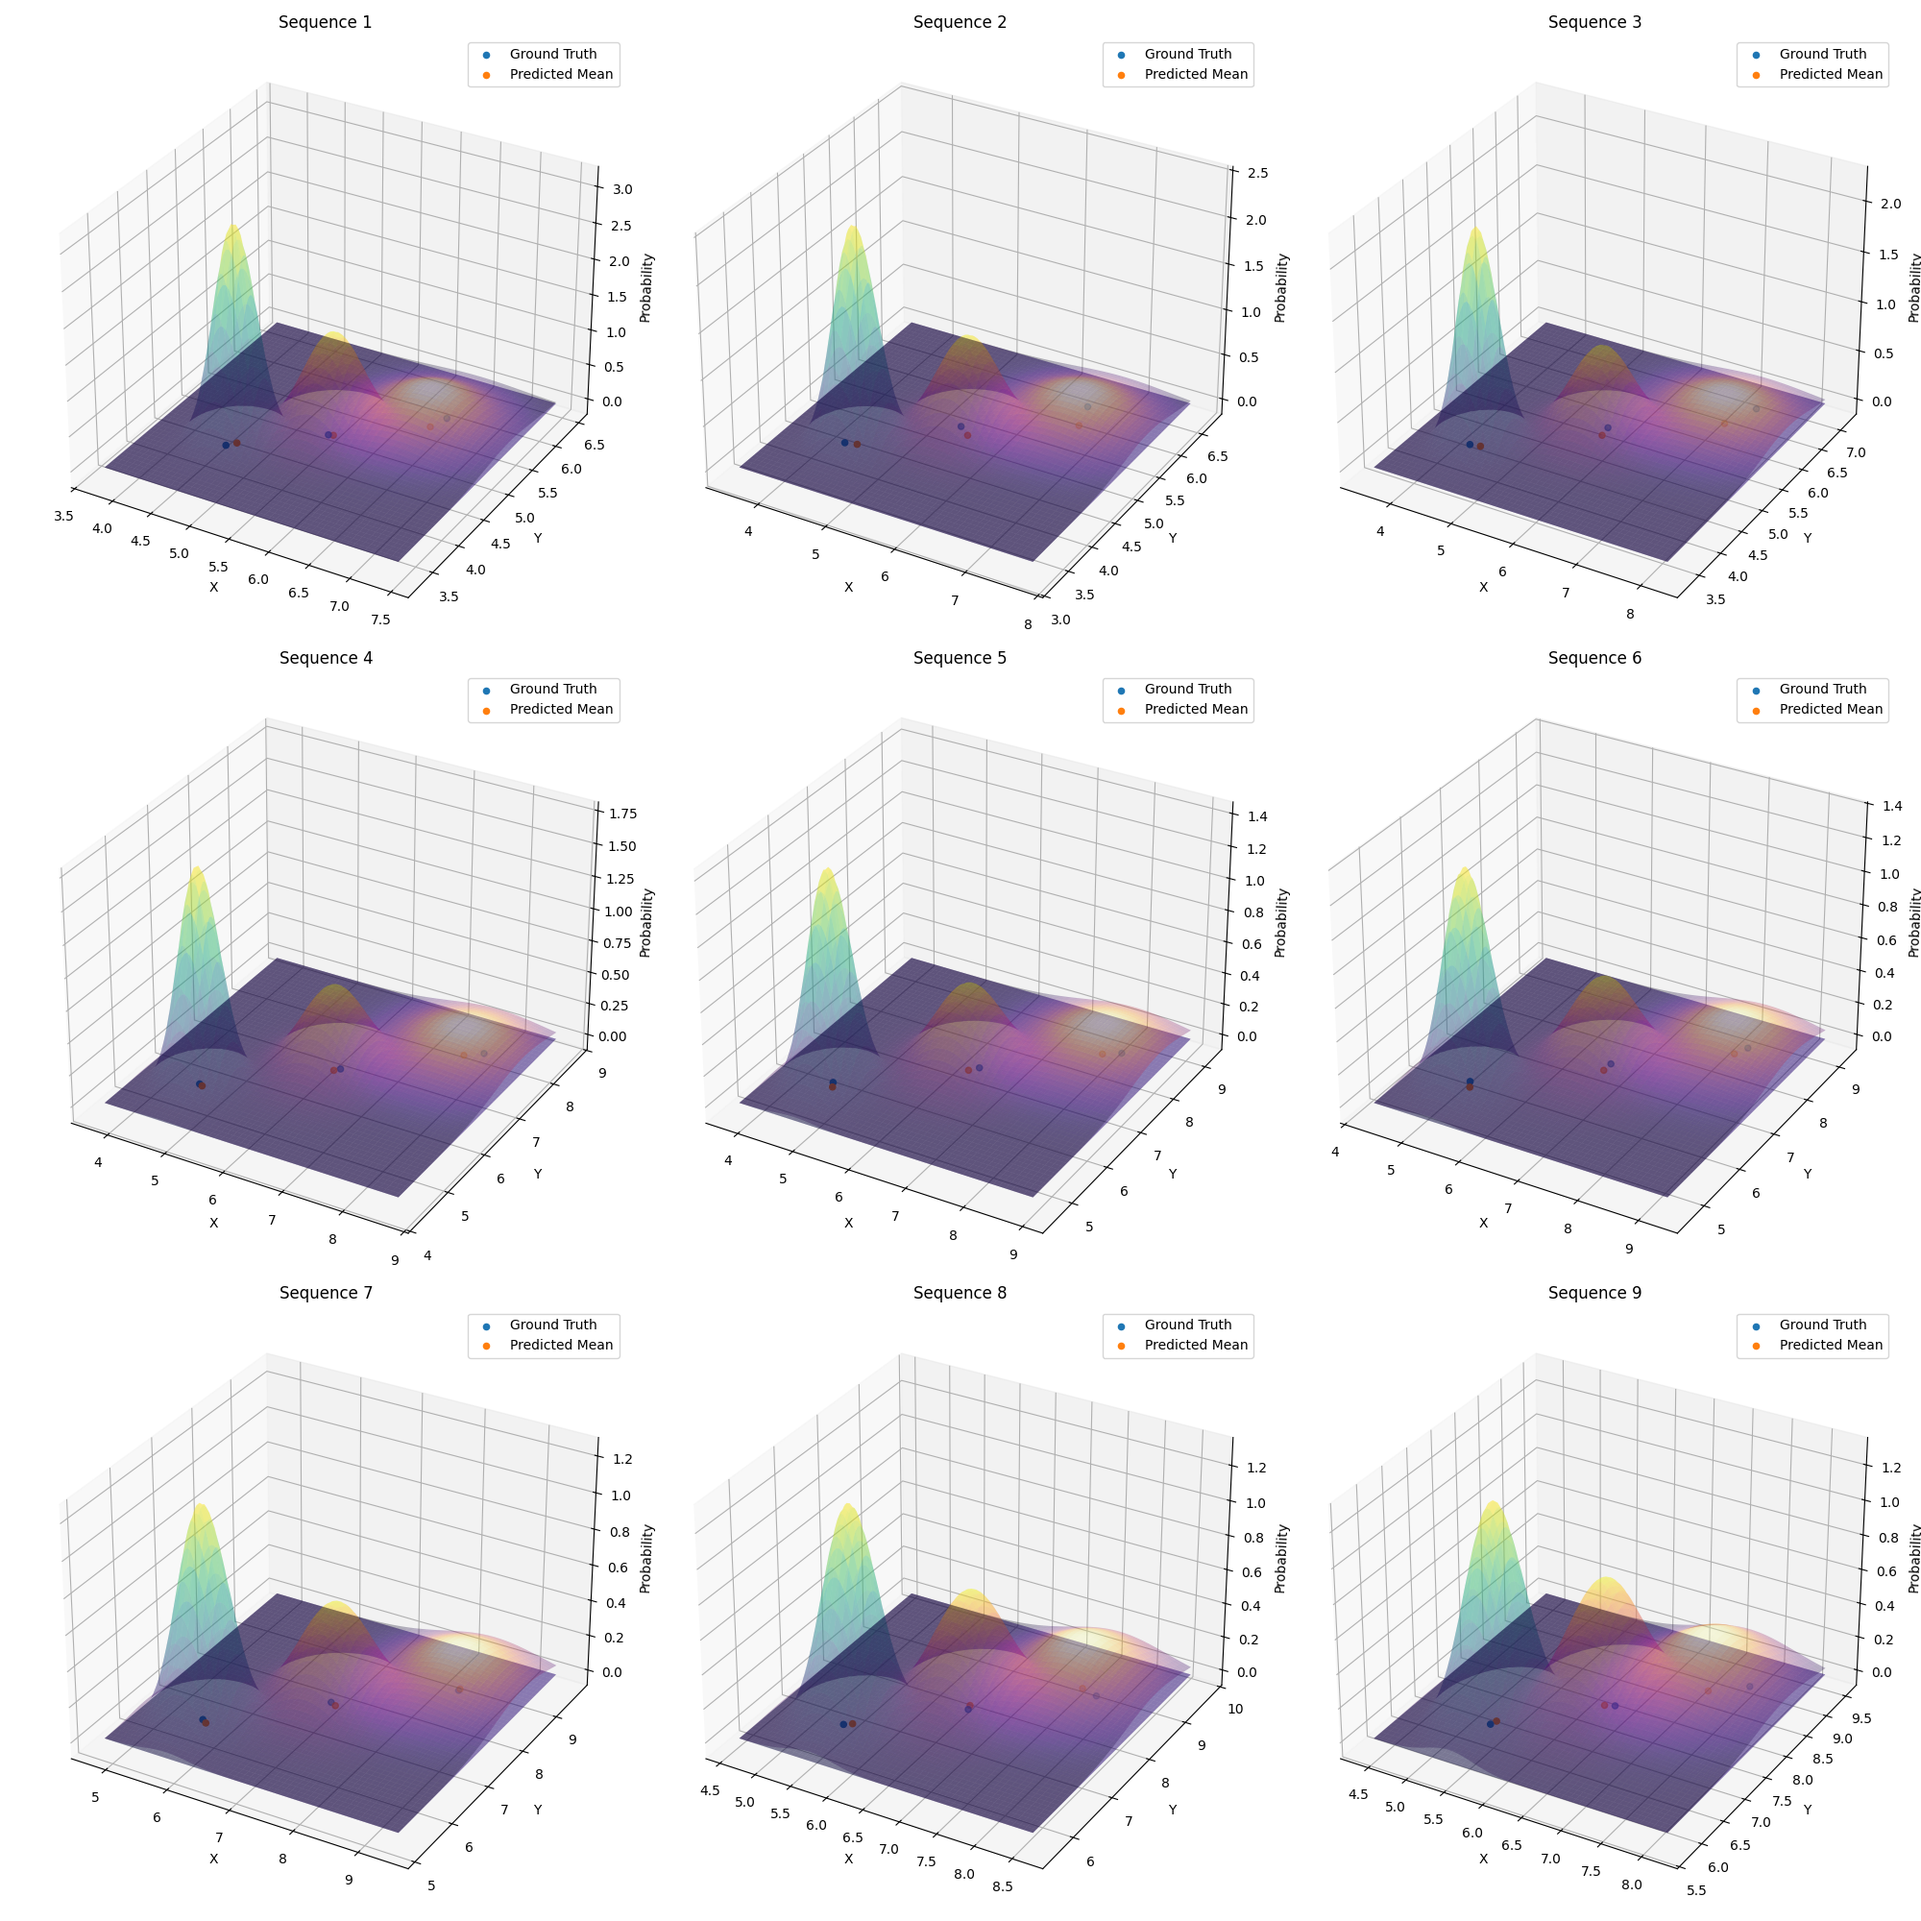
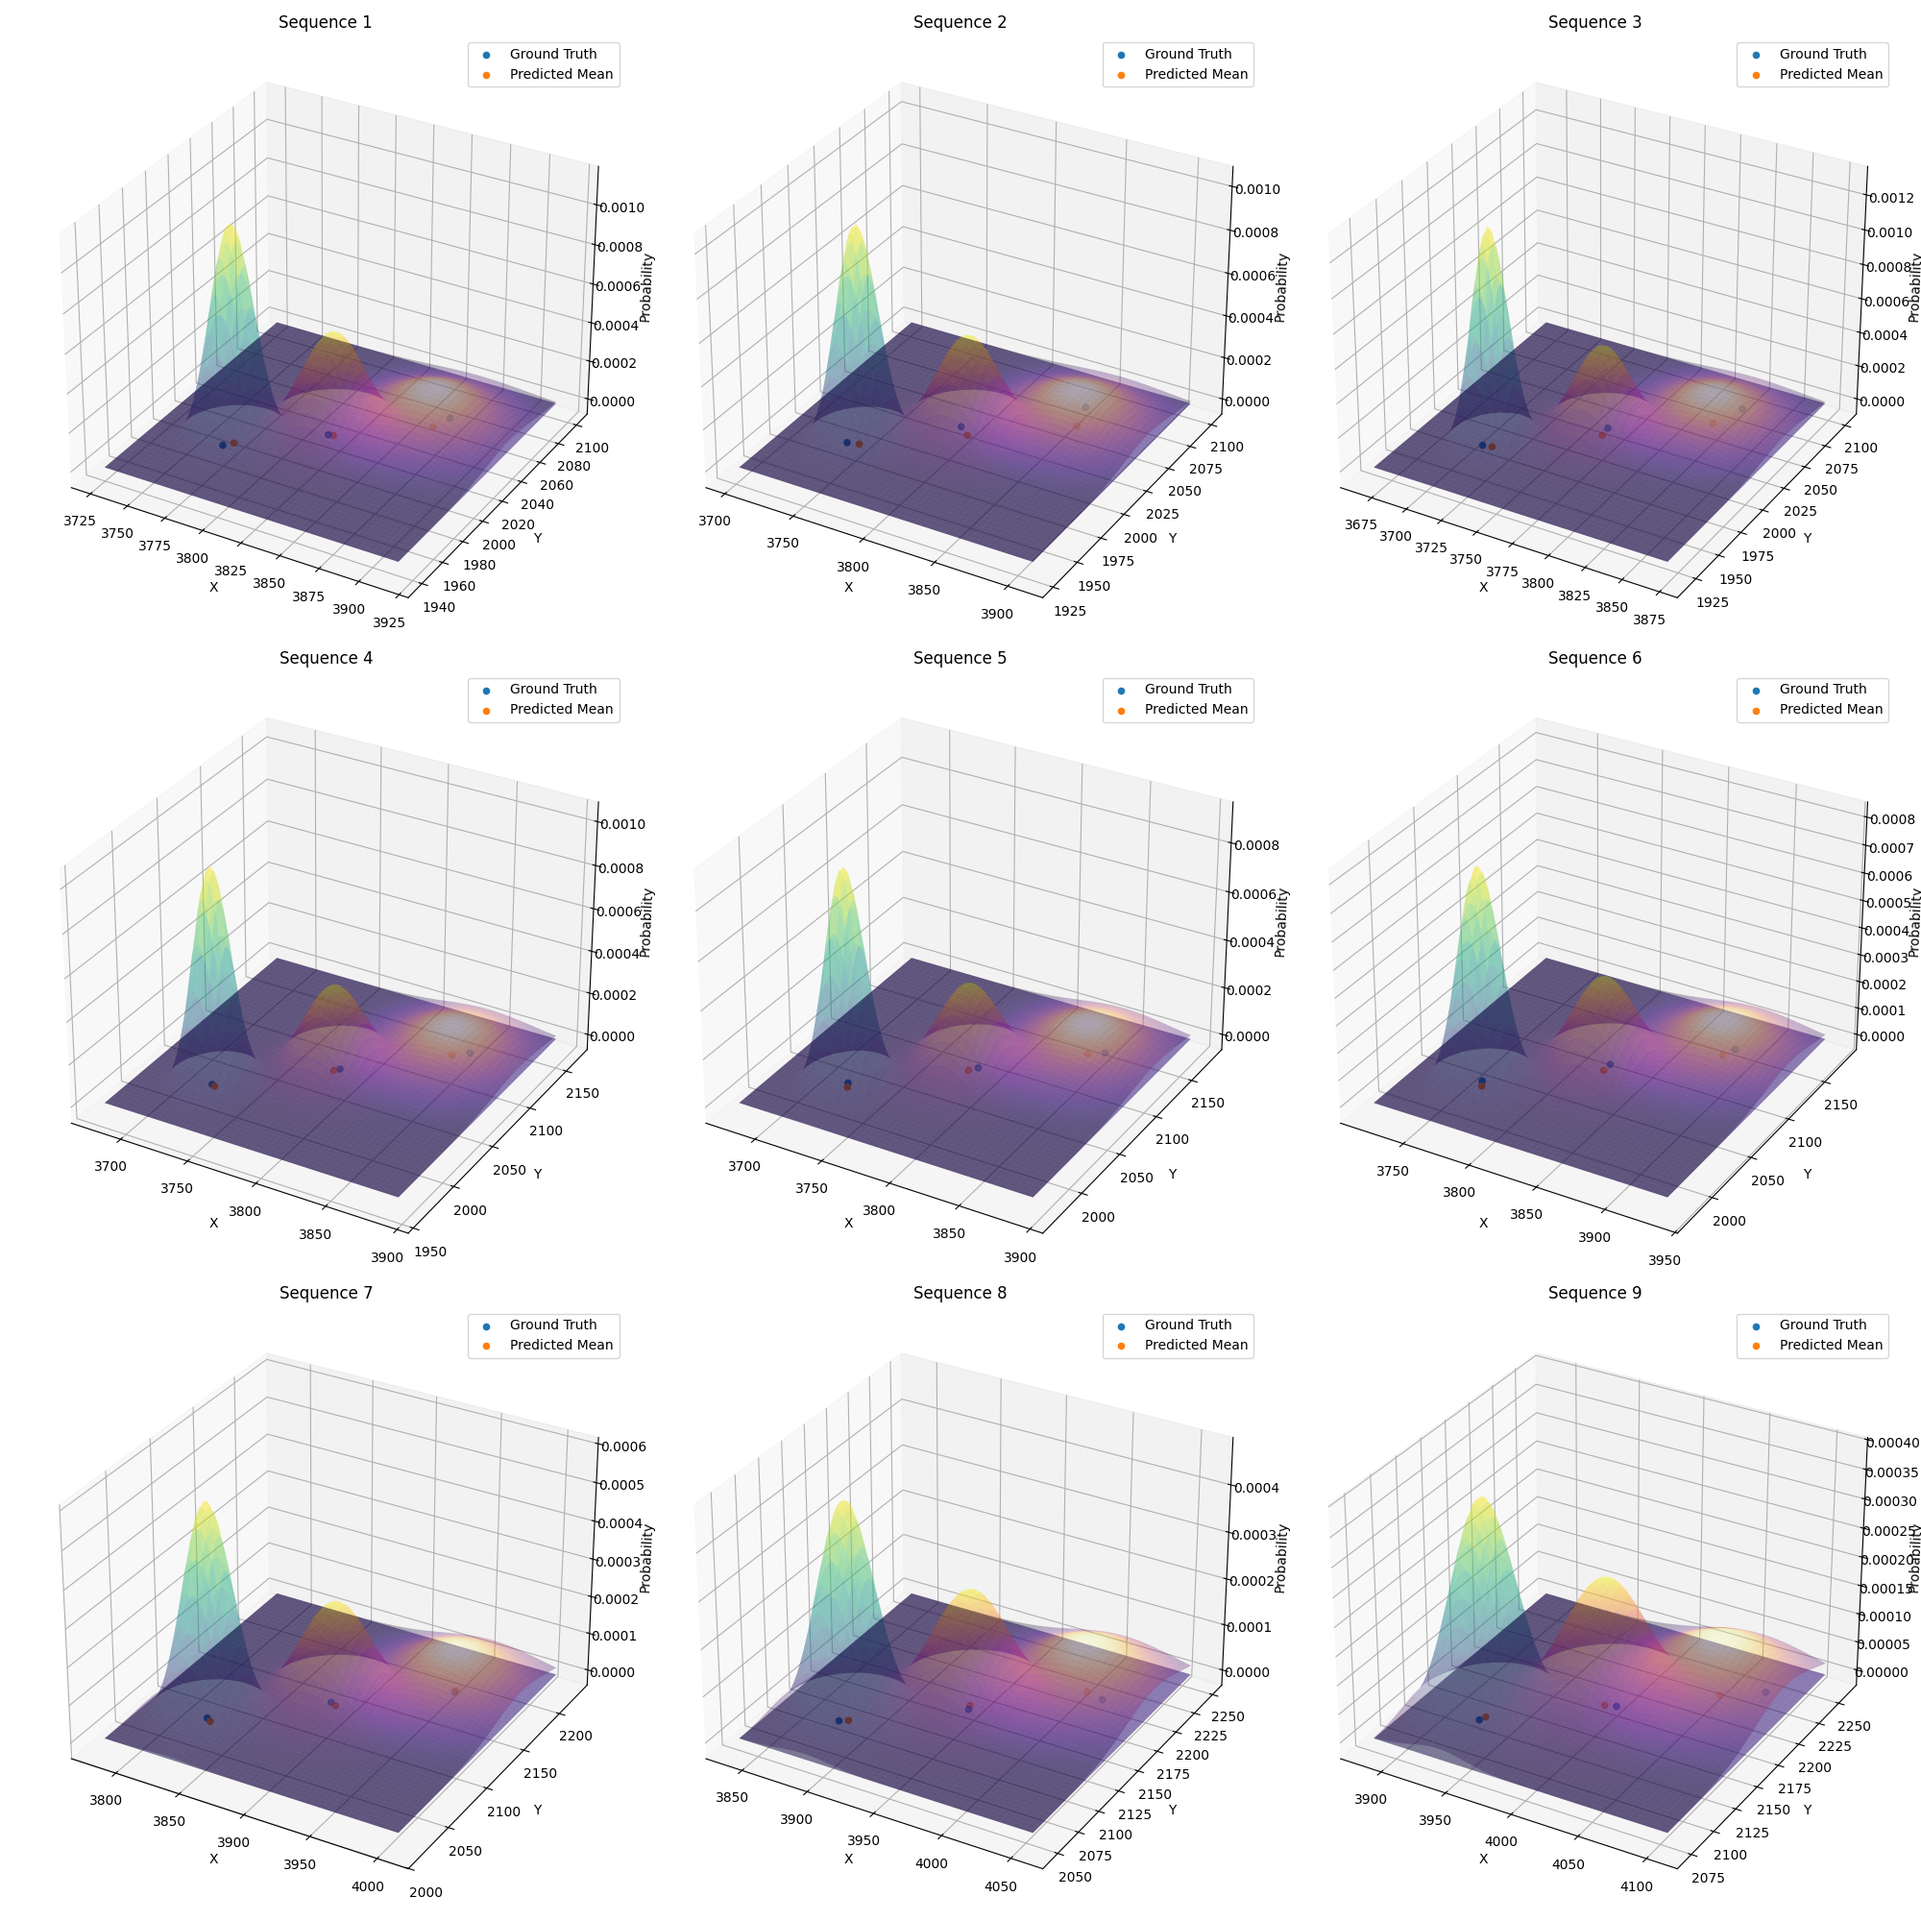
unscaled dist.

diff --git a/test.py b/test.py
@@ -6,6 +6,7 @@ from scipy.stats import multivariate_normal
 
 from TrajectoryDataset import TrajectoryDataset
 from DLModels import GraphTrajectoryLSTM
+from visualizer import visualize_predictions
 
 
 def load_model(model_path, input_sizes, hidden_size, num_layers, input_seq_len, output_seq_len, device):
@@ -15,13 +16,31 @@ def load_model(model_path, input_sizes, hidden_size, num_layers, input_seq_len, 
     model.eval()
     return model
 
+def restore_mean(scaled_mean_x, scaled_mean_y, graph_bounds):
+    x_min, x_max, y_min, y_max = graph_bounds
+    original_mean_x = scaled_mean_x * (x_max - x_min) + x_min
+    original_mean_y = scaled_mean_y * (y_max - y_min) + y_min
+    return [original_mean_x, original_mean_y]
+
+def restore_variance(scaled_variance_x, scaled_variance_y, graph_bounds):
+    x_min, x_max, y_min, y_max = graph_bounds
+    original_variance_x = scaled_variance_x * (x_max - x_min)**2 
+    original_variance_y = scaled_variance_y * (y_max - y_min)**2
+    return [original_variance_x, original_variance_y]
+
+def restore_position(scaled_x, scaled_y, graph_bounds):
+    x_min, x_max, y_min, y_max = graph_bounds
+    original_x = scaled_x * (x_max - x_min) + x_min
+    original_y = scaled_y * (y_max - y_min) + y_min
+    return [original_x, original_y]
+
 def make_predictions(model, dataset, device, num_samples=9):
     model.eval()
     all_predictions = []
 
     with torch.no_grad():
         for idx in range(num_samples):
-            past, future, graph = dataset[idx+10]
+            past, future, graph, graph_bounds = dataset[idx+10]
             
             # Ensure consistent dimensions
             past = {k: v.unsqueeze(0).to(device) for k, v in past.items()}  # Add batch dimension
@@ -33,9 +52,10 @@ def make_predictions(model, dataset, device, num_samples=9):
 
     return all_predictions
 
-def plot_3d_distributions(predictions, past_positions, future_positions):
+def plot_3d_distributions(predictions, past_positions, future_positions, all_graph_bounds):  # Add all_graph_bounds
     fig = plt.figure(figsize=(20, 20))
     colors = ['viridis', 'plasma', 'inferno']
+    print("Scaled Variances: ")
     for i in range(9):
         ax = fig.add_subplot(3, 3, i+1, projection='3d')
         
@@ -45,6 +65,13 @@ def plot_3d_distributions(predictions, past_positions, future_positions):
         pred_pos = predictions[i]['position_mean']
         pred_var = predictions[i]['position_var']
         
+        # Unscale the predicted mean and variance using the corresponding graph bounds
+        graph_bounds = all_graph_bounds[i] 
+        future_pos = np.array([restore_position(x, y, graph_bounds) for x, y in future_pos])
+        pred_pos = np.array([restore_mean(x, y, graph_bounds) for x, y in pred_pos])
+        pred_var = np.array([restore_variance(x, y, graph_bounds) for x, y in pred_var])
+        
+        print(pred_var)
         # Plot past trajectory
         #ax.plot(past_pos[:, 0], past_pos[:, 1], np.zeros_like(past_pos[:, 0]), 'b-', label='Past')
         
@@ -55,7 +82,7 @@ def plot_3d_distributions(predictions, past_positions, future_positions):
         ax.scatter(pred_pos[:, 0], pred_pos[:, 1], np.zeros_like(pred_pos[:, 0]), 'r-', label='Predicted Mean')
         
         # Create grid for probability distribution
-        padding = 1
+        padding = 50
         x = np.linspace(min(pred_pos[:, 0]) - padding, max(pred_pos[:, 0]) + padding, 100)
         y = np.linspace(min(pred_pos[:, 1]) - padding, max(pred_pos[:, 1]) + padding, 100)
         X, Y = np.meshgrid(x, y)
@@ -65,6 +92,11 @@ def plot_3d_distributions(predictions, past_positions, future_positions):
             mean = pred_pos[t]
             cov = np.diag(pred_var[t])
             Z = multivariate_normal.pdf(np.dstack((X, Y)), mean=mean, cov=cov)
+
+            # Normalize Z
+            #Z = Z * 1000
+            #Z = Z / Z.max()  # Scale Z so that the maximum value is 1
+
             ax.plot_surface(X, Y, Z, cmap=colors[t], alpha=0.3)
         
         ax.set_xlabel('X')
@@ -76,6 +108,66 @@ def plot_3d_distributions(predictions, past_positions, future_positions):
     plt.tight_layout()
     plt.show()
     plt.savefig("pdf.png")
+
+
+input_sizes = {
+        'node_features': 4,
+        'position': 2,
+        'velocity': 2,
+        'steering': 1,
+        'object_in_path': 1,
+        'traffic_light_detected': 1
+    }
+hidden_size = 64
+num_layers = 2
+input_seq_len = 3  # past trajectory length
+output_seq_len = 3  # future prediction length
+
+scaling_factor = 10
+
+# Data loading
+data_folder = "Test_Dataset/Sequence_Dataset"
+dataset = TrajectoryDataset(data_folder, position_scaling_factor=10, velocity_scaling_factor=100, steering_scaling_factor=100)
+
+model_path = 'graph_trajectory_model.pth'
+
+# Load the model
+device = torch.device("cuda" if torch.cuda.is_available() else "cpu")
+model = load_model(model_path, input_sizes, hidden_size, num_layers, input_seq_len, output_seq_len, device)
+
+print(device)
+
+# Make predictions
+predictions = make_predictions(model, dataset, device, num_samples=9)
+
+# Extract past and future positions
+past_positions = []
+future_positions = []
+all_graph_bounds = []
+for i in range(10,19):
+    past, future, graph, graph_bounds = dataset[i]
+    past_positions.append(past['position'].numpy())
+    future_positions.append(future['position'].numpy())
+    all_graph_bounds.append(graph_bounds)
+
+# Plot 3D distributions grouped by time steps
+plot_3d_distributions(predictions, past_positions, future_positions, all_graph_bounds)
+
+print("distribution viz. done!")
+
+
+
+
+
+
+
+
+
+
+
+
+
+
 
 def plot_distributions_by_time_step(predictions, future_positions, num_time_steps=6):
     fig, axs = plt.subplots(2, 3, figsize=(20, 15), subplot_kw={'projection': '3d'})
@@ -152,41 +244,4 @@ def plot_distributions_by_time_step(predictions, future_positions, num_time_step
     plt.savefig("time_step_distributions.png")
 
 
-input_sizes = {
-        'node_features': 4,
-        'position': 2,
-        'velocity': 2,
-        'steering': 1,
-        'object_in_path': 1,
-        'traffic_light_detected': 1
-    }
-hidden_size = 64
-num_layers = 2
-input_seq_len = 3  # past trajectory length
-output_seq_len = 3  # future prediction length
-
-# Data loading
-data_folder = "Test_Dataset/Sequence_Dataset"
-dataset = TrajectoryDataset(data_folder, position_scaling_factor=10, velocity_scaling_factor=100, steering_scaling_factor=100)
-
-model_path = 'graph_trajectory_model.pth'
-
-# Load the model
-device = torch.device("cuda" if torch.cuda.is_available() else "cpu")
-model = load_model(model_path, input_sizes, hidden_size, num_layers, input_seq_len, output_seq_len, device)
-
-# Make predictions
-predictions = make_predictions(model, dataset, device, num_samples=9)
-
-# Extract past and future positions
-past_positions = []
-future_positions = []
-for i in range(10,19):
-    past, future, _ = dataset[i]
-    past_positions.append(past['position'].numpy())
-    future_positions.append(future['position'].numpy())
-
-# Plot 3D distributions grouped by time steps
-plot_3d_distributions(predictions, past_positions, future_positions)
-
-plot_distributions_by_time_step(predictions, future_positions)
+#plot_distributions_by_time_step(predictions, future_positions)

diff --git a/visualizer.py b/visualizer.py
@@ -111,11 +111,12 @@ def plot_velocity_and_steering(sequence, predicted_future, ax1, ax2):
 def make_predictions(model, dataset, device, num_samples=9):
     model.eval()
     all_predictions = []
-    sampled_sequences = random.sample(range(len(dataset)), num_samples)
+    #sampled_sequences = random.sample(range(len(dataset)), num_samples)
+    sampled_sequences = [i + 10 for i in range(num_samples)]
 
     with torch.no_grad():
         for idx in sampled_sequences:
-            past, future, graph = dataset[idx]
+            past, future, graph, graph_bounds = dataset[idx]
             
             # Ensure consistent dimensions
             past = {k: v.unsqueeze(0).to(device) for k, v in past.items()}  # Add batch dimension
@@ -143,5 +144,5 @@ def visualize_predictions(model, dataset, scaling_factor, device):
         ax.set_title(f"Sample {i+1}")
 
     plt.tight_layout()
-    plt.savefig("plots/model_visualization.png")
+    plt.savefig("model_visualization.png")
     plt.close()

diff --git a/Trainer.py b/Trainer.py
@@ -16,7 +16,7 @@ class Trainer:
         self.model.train()
         train_loss = 0.0
         
-        for past, future, graph in tqdm(self.train_loader, desc="Training"):
+        for past, future, graph, graph_bounds in tqdm(self.train_loader, desc="Training"):
             past = {k: v.to(self.device) for k, v in past.items()}
             future = {k: v.to(self.device) for k, v in future.items()}
             graph = {k: v.to(self.device) for k, v in graph.items()}
@@ -38,7 +38,7 @@ class Trainer:
         self.model.eval()
         val_loss = 0.0
         with torch.no_grad():
-            for past, future, graph in self.val_loader:
+            for past, future, graph, graph_bounds in self.val_loader:
                 past = {k: v.to(self.device) for k, v in past.items()}
                 future = {k: v.to(self.device) for k, v in future.items()}
                 graph = {k: v.to(self.device) for k, v in graph.items()}

diff --git a/main.py b/main.py
@@ -45,6 +45,7 @@ def train():
     
     # Data loading
     data_folder = "Dataset/Sequence_Dataset"
+    #data_folder = "Test_Dataset/Sequence_Dataset"
     dataset = TrajectoryDataset(data_folder, position_scaling_factor=10, velocity_scaling_factor=100, steering_scaling_factor=100)
     
     # Split the dataset
@@ -115,7 +116,7 @@ def visualize_loaded_model(model_path):
     scaling_factor = 10
     
     # Data loading
-    data_folder = "Dataset/Sequence_Dataset"
+    data_folder = "Test_Dataset/Sequence_Dataset"
     dataset = TrajectoryDataset(data_folder, position_scaling_factor=10, velocity_scaling_factor=100, steering_scaling_factor=100)
 
     # Load the model

diff --git a/TrajectoryDataset.py b/TrajectoryDataset.py
@@ -95,5 +95,7 @@ class TrajectoryDataset(Dataset):
             'node_features': node_features,
             'adj_matrix': adj_matrix
         }
+
+        graph_bounds = sequence['graph_bounds']
         
-        return past_tensor, future_tensor, graph_tensor
+        return past_tensor, future_tensor, graph_tensor, graph_bounds
